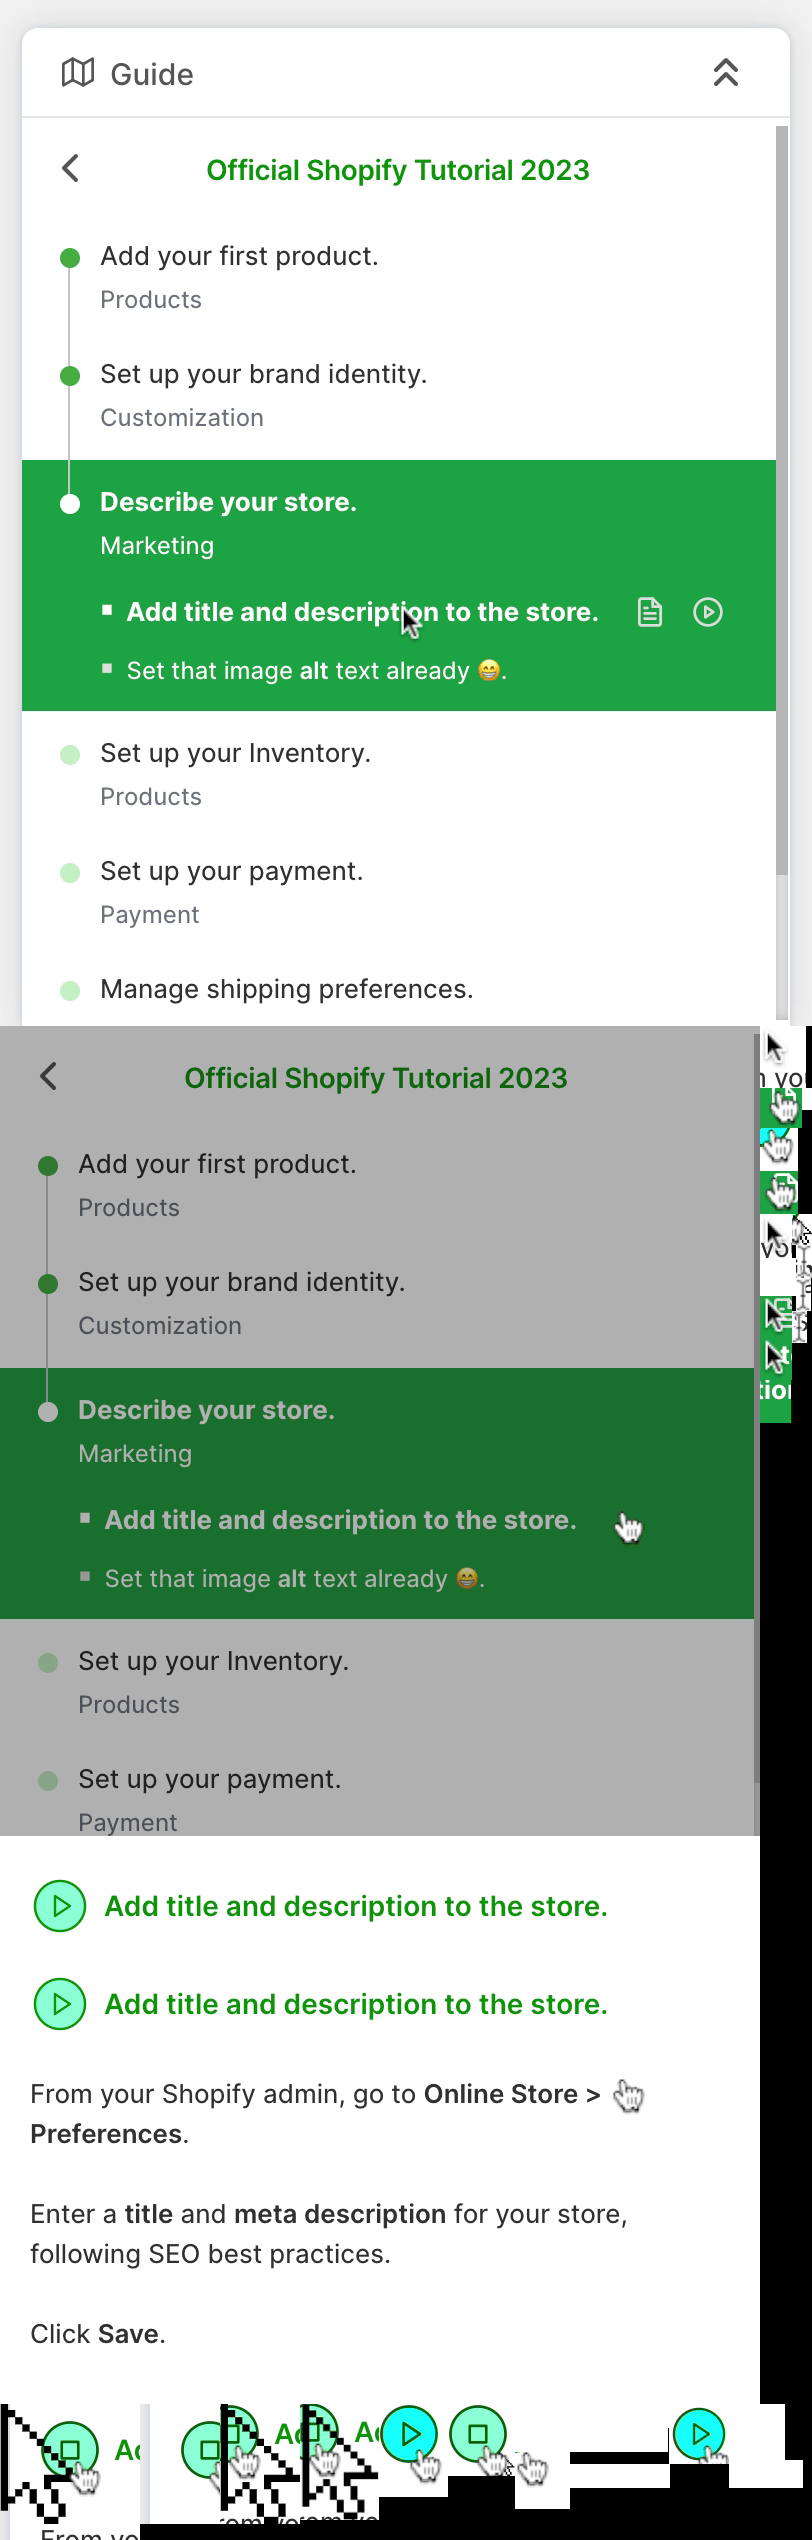
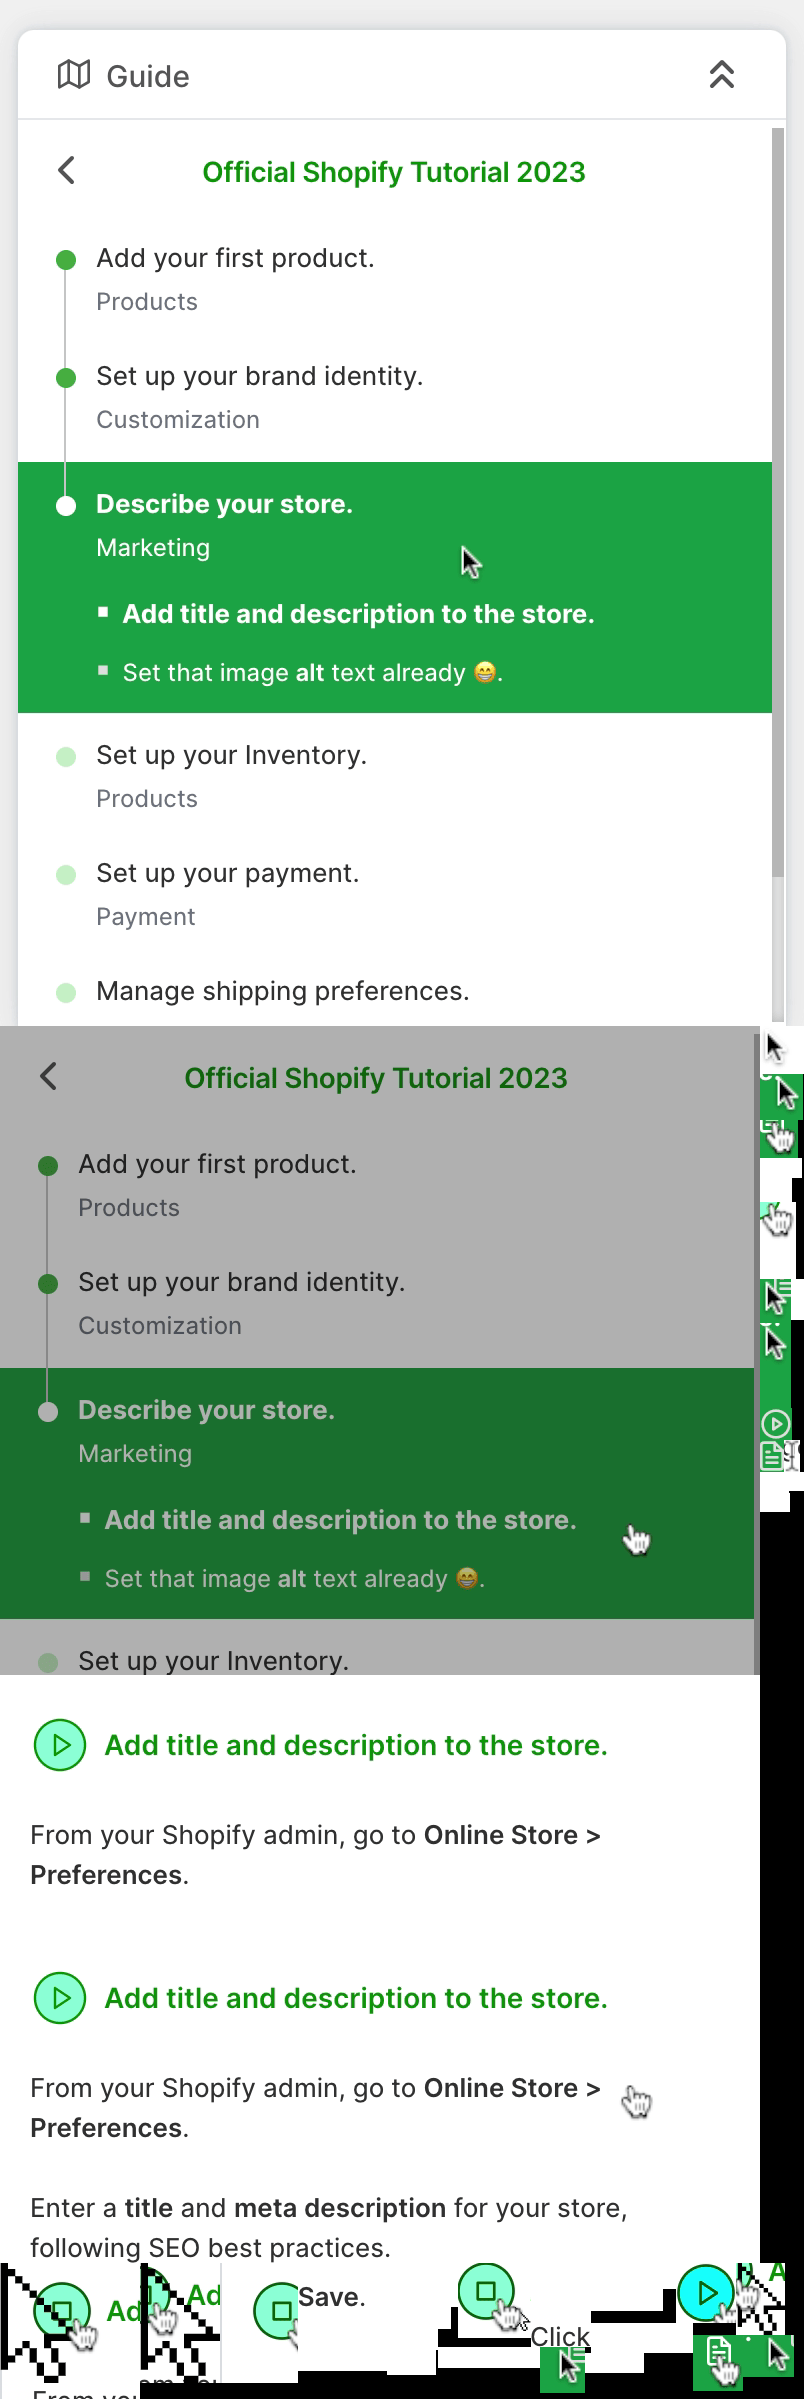
Updated cursor demo.

Changed region(s): [[0.0, 0.0, 1.0, 1.0], [0.8706, 0.0, 0.9017, 0.0617]]

diff --git a/layouts/shortcodes/btm_script.html b/layouts/shortcodes/btm_script.html
@@ -28,6 +28,7 @@
         if (isIntersect) {
           this.loading = true;
         }
+        this.$refs.demo.style.backgroundColor = 'var(--white-95)';
         this.showOverlay = false;
         this.activeOverlay = [];
         const { series } = this.$store.timeline;

diff --git a/content/posts/betamax/index.md b/content/posts/betamax/index.md
@@ -112,7 +112,7 @@ So now, without significantly altering the python encoder (possibly introduce <a
 
 
 <div align="center">
-  <video class="lazy" autoplay playsinline muted loop height="200" width="480">
+  <video class="lazy" autoplay="" playsinline="" loop height="200" width="480" muted="" style="aspect-ratio:2.4">
     <source data-src="quicksilver.webm" type="video/webm"/>
   </video>
 </div>
